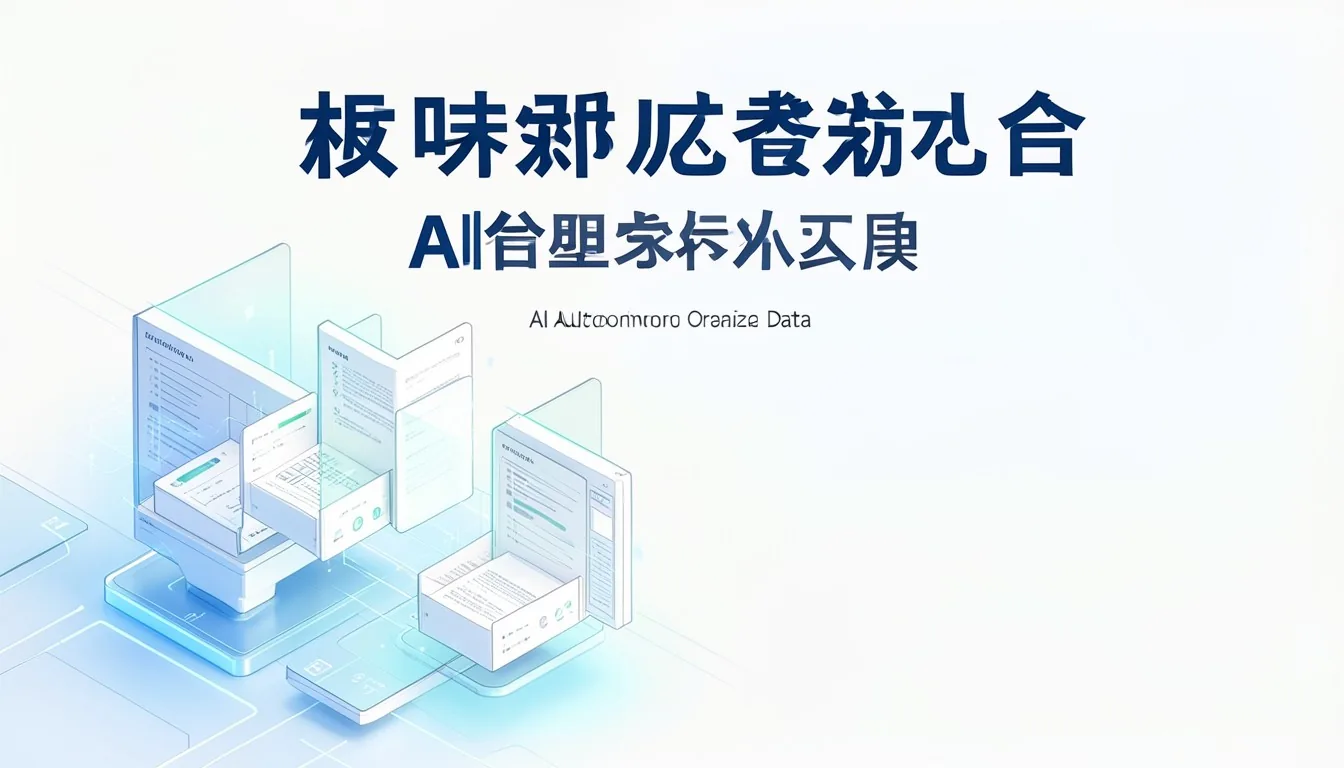
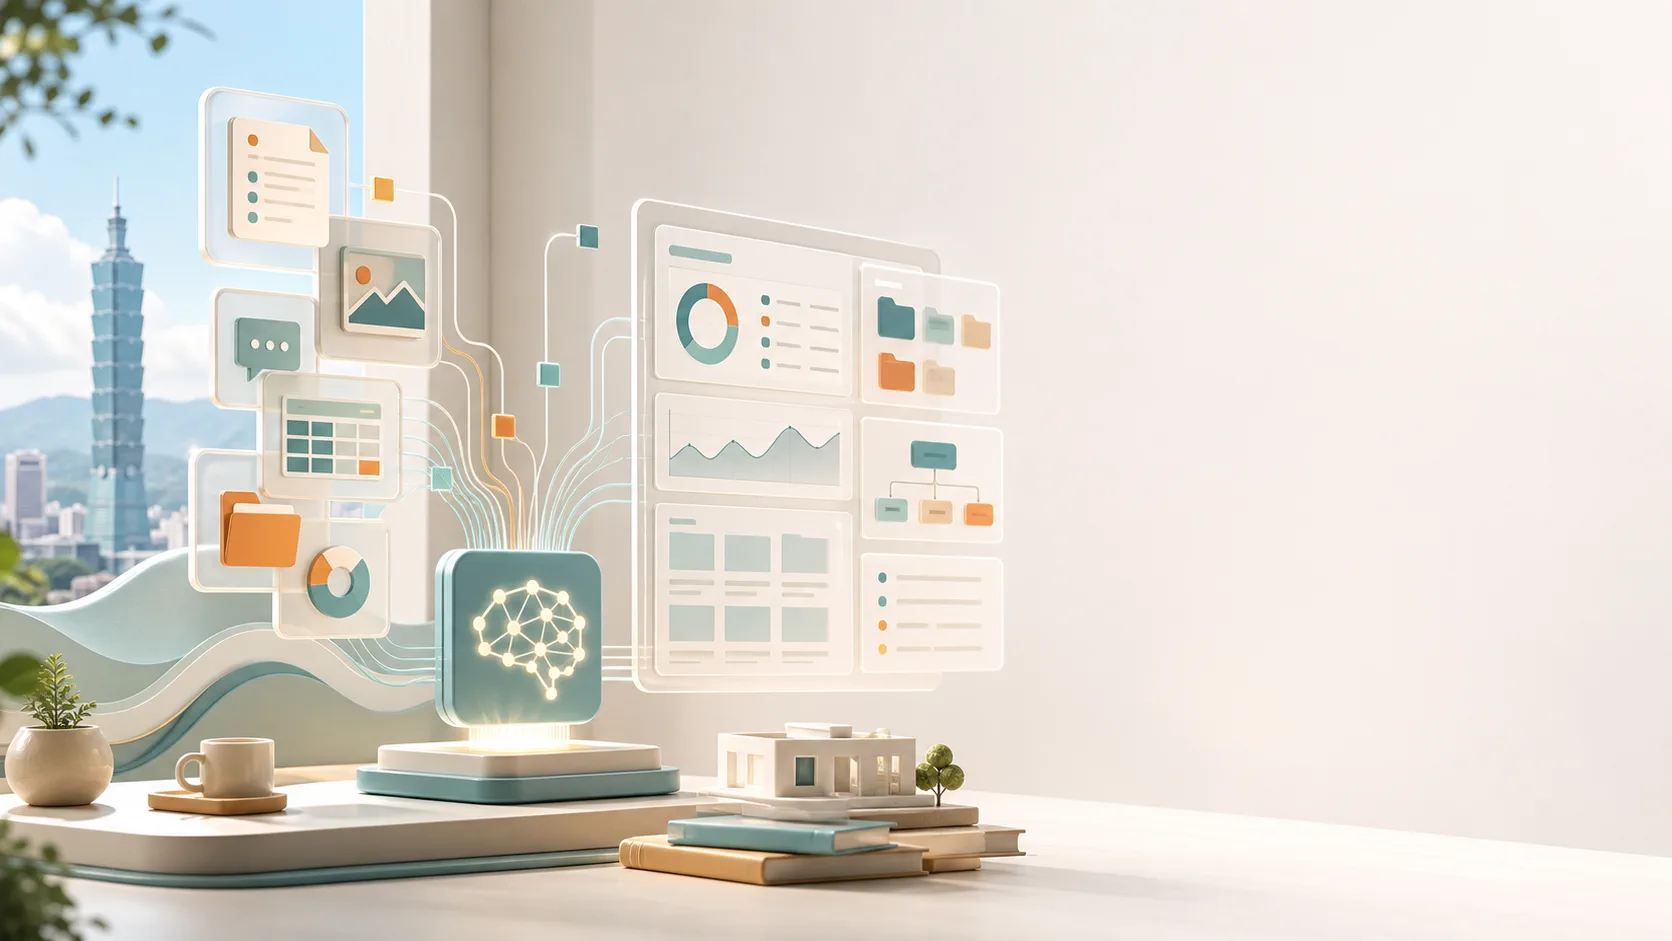
style(design): FINDING-004 — replace garbled gallery sample

diff --git a/app/static/index.html b/app/static/index.html
@@ -381,7 +381,7 @@
       </div>
       <div class="example-grid">
         <article class="example-card" data-example-prompt="一張適合簡報封面的插圖：台灣中小企業用 AI 自動整理資料，畫面乾淨、明亮、帶一點未來感，留白可放標題" data-example-style="cinematic" data-example-use-case="ppt" data-example-size="landscape">
-          <div class="example-thumb"><img width="1344" height="768" data-src="/static/examples/gallery-ppt-cover.webp" alt="AI 資料簡報封面範例" loading="lazy" decoding="async"></div>
+          <div class="example-thumb"><img width="1672" height="941" data-src="/static/examples/gallery-ppt-cover.webp" alt="AI 資料簡報封面範例" loading="lazy" decoding="async"></div>
           <div class="example-body">
             <span class="example-category">PPT 插圖</span>
             <h3>AI 資料簡報封面</h3>

diff --git a/cloudflare/public/index.html b/cloudflare/public/index.html
@@ -381,7 +381,7 @@
       </div>
       <div class="example-grid">
         <article class="example-card" data-example-prompt="一張適合簡報封面的插圖：台灣中小企業用 AI 自動整理資料，畫面乾淨、明亮、帶一點未來感，留白可放標題" data-example-style="cinematic" data-example-use-case="ppt" data-example-size="landscape">
-          <div class="example-thumb"><img width="1344" height="768" data-src="/static/examples/gallery-ppt-cover.webp" alt="AI 資料簡報封面範例" loading="lazy" decoding="async"></div>
+          <div class="example-thumb"><img width="1672" height="941" data-src="/static/examples/gallery-ppt-cover.webp" alt="AI 資料簡報封面範例" loading="lazy" decoding="async"></div>
           <div class="example-body">
             <span class="example-category">PPT 插圖</span>
             <h3>AI 資料簡報封面</h3>
